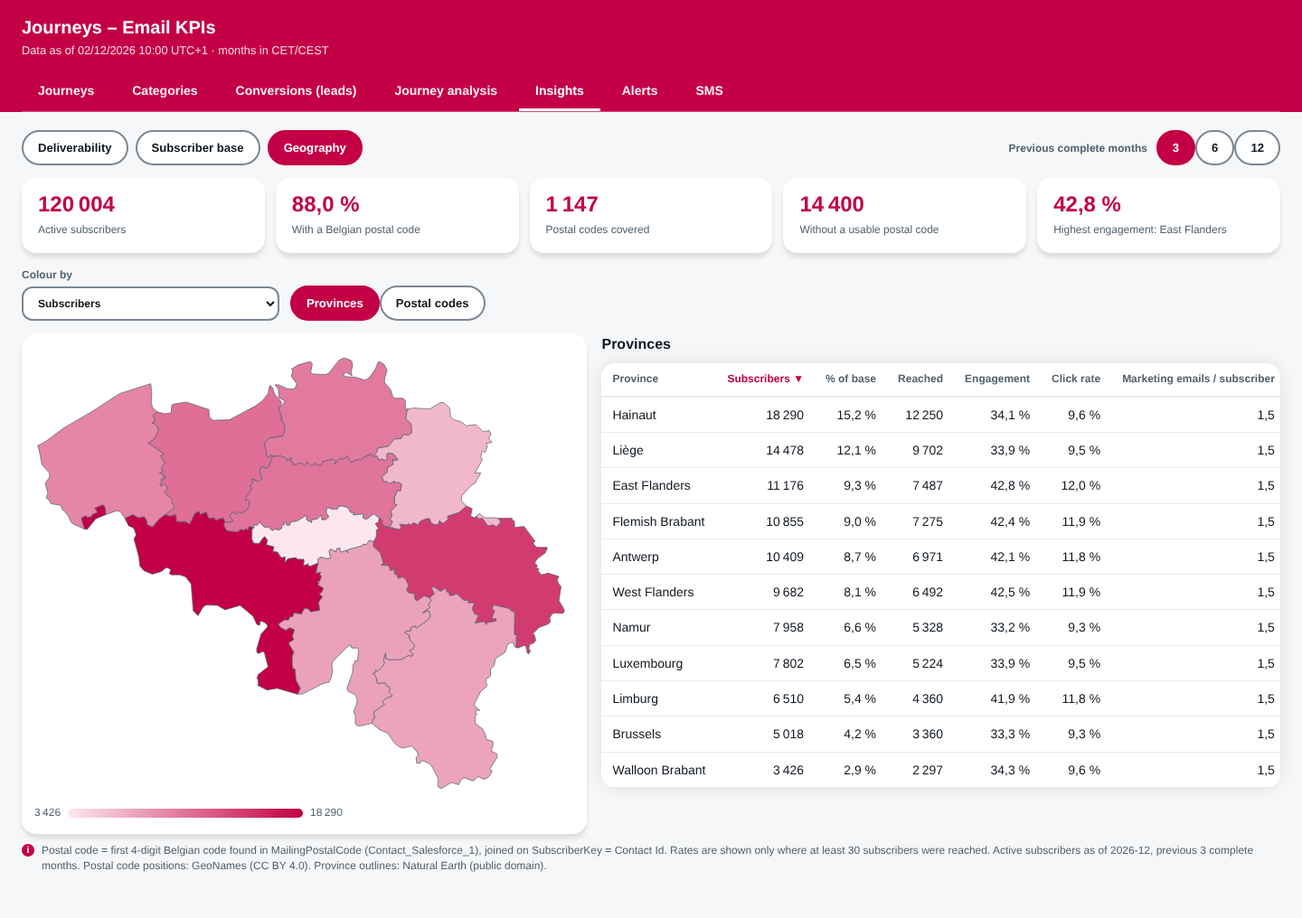
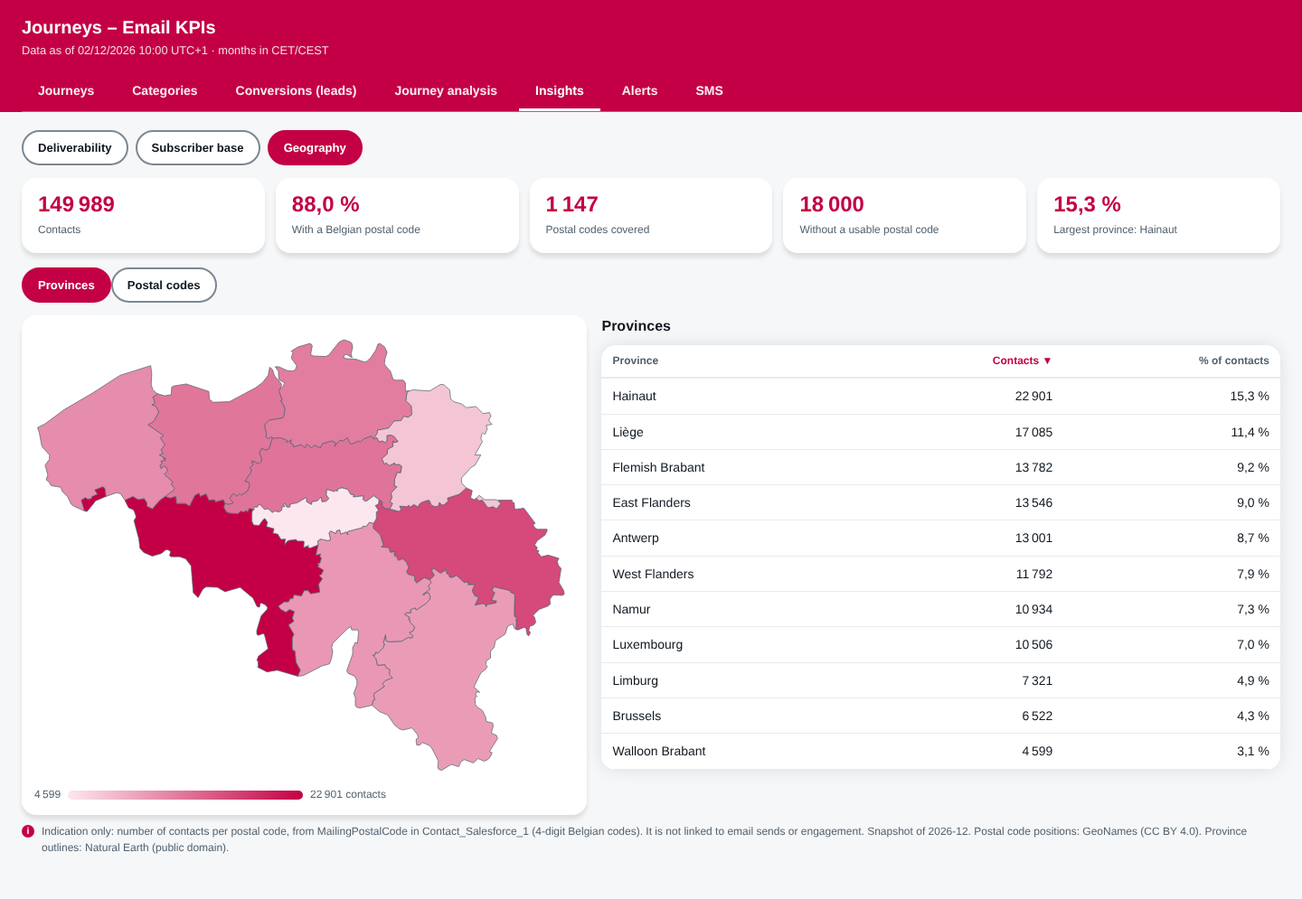
Geography: contact distribution only (no engagement, no subscriber join, no look-back window)
DASH_Contact_Geo (PostalCode, Contacts) from Contact_Salesforce_1, overwritten daily.

Claude-Session: https://claude.ai/code/session_01WtzjzeTDomDiWbenzCQNQG

diff --git a/cloudpage_dashboard.html b/cloudpage_dashboard.html
@@ -326,7 +326,6 @@ a.jl:focus-visible{outline:2px solid var(--focus);outline-offset:2px;border-radi
       <div id="geoMsg" class="warn" role="status" hidden></div>
       <div id="geoCards" class="cards"></div>
       <div class="cbar">
-        <label>Colour by<select id="fGm"><option value="subs">Subscribers</option><option value="eng">Engagement rate (open or click)</option><option value="click">Click rate</option><option value="recv">Marketing emails received per subscriber</option></select></label>
         <span role="group" aria-label="Map level"><button type="button" class="chip" data-gl="prov" aria-pressed="true">Provinces</button><button type="button" class="chip" data-gl="postal" aria-pressed="false">Postal codes</button></span>
       </div>
       <div class="mapgrid">
@@ -364,7 +363,7 @@ const ALERT_MIN_DAYS = CFG.alertMinDays ?? 3;    /* do not alert before this man
 const DARK = () => window.matchMedia && matchMedia('(prefers-color-scheme: dark)').matches;
 const PAL_L = ['#c30045','#101820','#2a7fb8','#4b9b30','#ad0cdf'], PAL_D = ['#ff7da3','#eef0f2','#6cb8ee','#7fd36a','#d28bff'];
 const DASHES = [[],[7,4],[2,3],[10,3,2,3]], PTS = ['circle','rect','triangle','rectRot'];   /* series differ by shape and line style, not only by colour */
-const S = {tab:'journeys', fam:'ALL', type:'', prod:'', from:'', to:'', gran:'total', grp:'journey', view:'cat', q:'', j:'', alert:'ongoing', compact:false, sub:'deliv', win:'3', gm:'subs', gl:'prov'};
+const S = {tab:'journeys', fam:'ALL', type:'', prod:'', from:'', to:'', gran:'total', grp:'journey', view:'cat', q:'', j:'', alert:'ongoing', compact:false, sub:'deliv', win:'3', gl:'prov'};
 let DEF = {}, JSET = new Set(), FOCUS = null;
 const SORT = {};   /* sort state per table id: {k,d} */
 const EXP = new Set();   /* expanded journey rows (email activity detail) */
@@ -796,11 +795,10 @@ function viewInsDeliv(){
 
 /* ---------- Insights : sous-vues ---------- */
 function viewIns(){
-  $('ins-deliv').hidden = S.sub!=='deliv'; $('ins-aud').hidden = S.sub!=='aud'; $('ins-geo').hidden = S.sub!=='geo'; $('winBar').hidden = S.sub==='deliv';
+  $('ins-deliv').hidden = S.sub!=='deliv'; $('ins-aud').hidden = S.sub!=='aud'; $('ins-geo').hidden = S.sub!=='geo'; $('winBar').hidden = S.sub!=='aud';   /* the geography is not tied to a look-back window */
   document.querySelectorAll('[data-sub]').forEach(b=>b.setAttribute('aria-pressed', b.dataset.sub===S.sub));
   document.querySelectorAll('[data-win]').forEach(b=>b.setAttribute('aria-pressed', b.dataset.win===S.win));
   document.querySelectorAll('[data-gl]').forEach(b=>b.setAttribute('aria-pressed', b.dataset.gl===S.gl));
-  $('fGm').value = S.gm;
   if (S.sub==='deliv') return viewInsDeliv();
   const msg = $(S.sub==='aud' ? 'audMsg' : 'geoMsg');
   if (D.audErr){
@@ -819,9 +817,10 @@ function loadAudience(){
   const cur = brusselsMonth(D.generatedMs||Date.now()), prev = mStr(mIdx(cur)-1);
   LOADING.audience = (async()=>{
     try{
-      let r = await api('audience',{asof:cur});
-      if (!(r.dist||[]).length && !(r.geo||[]).length){ const r2 = await api('audience',{asof:prev}); if ((r2.dist||[]).length || (r2.geo||[]).length) r = r2; }
-      D.aud = {asof:r.asof, dist:r.dist||[], geo:r.geo||[]}; D.audErr = ''; showWarn(r.warnings);
+      const r = await api('audience',{asof:cur});
+      let dist = r.dist||[], asof = r.asof;
+      if (!dist.length){ const r2 = await api('audience',{asof:prev}); if ((r2.dist||[]).length){ dist = r2.dist; asof = r2.asof; } }   /* snapshot of the previous month until the new one is computed */
+      D.aud = {asof, dist, geo:r.geo||[]}; D.audErr = ''; showWarn(r.warnings);
     }catch(e){ D.aud = null; D.audErr = e.message; }
     finally{ delete LOADING.audience; }
   })();
@@ -880,70 +879,56 @@ function ramp(x){
   x = Math.max(0, Math.min(1, x)); const dark = DARK(), a = dark ? [58,36,48] : [253,231,238], b = dark ? [255,92,138] : [195,0,69];
   return 'rgb('+a.map((v,i)=>Math.round(v+(b[i]-v)*x)).join(',')+')';
 }
-const MINR = 30;   /* rates are shown only where at least this many subscribers were reached */
 function viewGeo(){
   const box = $('mapBox'), msg = $('geoMsg'), tip = $('mapTip');
   charts.forEach(c=>c.destroy()); charts = [];
   if (!GEO){ msg.hidden = false; msg.textContent = 'Map data is not embedded in this page (run tools/inject_geo.py).'; return; }
-  const rows = D.aud.geo.filter(r=>r.Win===S.win);
+  const rows = D.aud.geo;
   msg.hidden = true;
-  if (!rows.length){ msg.hidden = false; msg.textContent = 'No geography snapshot for the previous '+S.win+' months yet (DASH_Audience_Geo).'; box.innerHTML = ''; $('tGeo').innerHTML = ''; cards('geoCards',[]); $('mapLegend').textContent=''; return; }
-  const pcm = new Map(), pvm = new Map(); let total = 0, na = 0;
-  const add = (m, key, r, extra) => { let a = m.get(key); if (!a){ a = Object.assign({key,Subs:0,Reached:0,Engaged:0,Clickers:0,Recv:0}, extra||{}); m.set(key,a); } a.Subs+=r.Subscribers; a.Reached+=r.Reached; a.Engaged+=r.Engaged; a.Clickers+=r.Clickers; a.Recv+=r.ReceivedMkt; };
+  if (!rows.length){ msg.hidden = false; msg.textContent = 'No contact geography yet (DASH_Contact_Geo).'; box.innerHTML = ''; $('tGeo').innerHTML = ''; cards('geoCards',[]); $('mapLegend').textContent=''; return; }
+  const pcm = new Map(), pvm = new Map(); let total = 0, na = 0, asof = '';
+  const add = (m, key, c, extra) => { let a = m.get(key); if (!a){ a = Object.assign({key,Contacts:0}, extra||{}); m.set(key,a); } a.Contacts += c; };
   for (const r of rows){
-    total += r.Subscribers; const g = GEO.postal[r.PostalCode];
-    if (r.PostalCode==='N/A' || !g){ na += r.Subscribers; continue; }
-    add(pcm, r.PostalCode, r, {name:g[3], prov:g[2], x:g[0], y:g[1]}); add(pvm, g[2], r);
+    total += r.Contacts; if (r.AsOf) asof = r.AsOf; const g = GEO.postal[r.PostalCode];
+    if (r.PostalCode==='N/A' || !g){ na += r.Contacts; continue; }
+    add(pcm, r.PostalCode, r.Contacts, {name:g[3], prov:g[2], x:g[0], y:g[1]}); add(pvm, g[2], r.Contacts);
   }
   const provName = id => { const p = GEO.provinces.find(x=>x.id===id); return p ? p.en : id; };
-  const rate = (a,b) => b>=MINR ? a/b : null;
-  const GM = {
-    subs:{l:'Subscribers',        v:e=>e.Subs,                                   f:n},
-    eng: {l:'Engagement rate',    v:e=>rate(e.Engaged,e.Reached),                f:x=>PF.format(x)},
-    click:{l:'Click rate',        v:e=>rate(e.Clickers,e.Reached),               f:x=>PF.format(x)},
-    recv:{l:'Marketing emails per subscriber', v:e=>e.Subs>=MINR?e.Recv/e.Subs:null, f:fx1}
-  }, m = GM[S.gm];
-  const ents = S.gl==='prov' ? pvm : pcm;
-  const vals = [...ents.values()].map(e=>m.v(e)).filter(v=>v!==null), lo = Math.min(...vals), hi = Math.max(...vals);
-  const col = v => v===null ? 'var(--map-neutral)' : ramp((v-lo)/((hi-lo)||1));
-  let svg = '<svg viewBox="'+GEO.viewBox.join(' ')+'" role="img" aria-label="Map of Belgium: '+esc(m.l)+' by '+(S.gl==='prov'?'province':'postal code')+'. The same figures are in the table next to the map.">';
-  for (const p of GEO.provinces){ const e = pvm.get(p.id); svg += '<path class="prov" d="'+p.d+'" fill="'+(S.gl==='prov' ? col(e ? m.v(e) : null) : 'var(--map-neutral)')+'" data-k="v:'+p.id+'"/>'; }
+  const known = total - na, ents = S.gl==='prov' ? pvm : pcm;
+  const vals = [...ents.values()].map(e=>e.Contacts), lo = Math.min(...vals), hi = Math.max(...vals);
+  let svg = '<svg viewBox="'+GEO.viewBox.join(' ')+'" role="img" aria-label="Map of Belgium: number of contacts by '+(S.gl==='prov'?'province':'postal code')+'. The same figures are in the table next to the map.">';
+  for (const p of GEO.provinces){ const e = pvm.get(p.id); svg += '<path class="prov" d="'+p.d+'" fill="'+(S.gl==='prov' && e ? ramp((e.Contacts-lo)/((hi-lo)||1)) : 'var(--map-neutral)')+'" data-k="v:'+p.id+'"/>'; }
   if (S.gl==='postal'){
-    const maxS = Math.max(...[...pcm.values()].map(e=>e.Subs), 1);
-    [...pcm.values()].sort((a,b)=>b.Subs-a.Subs).forEach(e=>{ svg += '<circle class="pc" cx="'+e.x+'" cy="'+e.y+'" r="'+(4+30*Math.sqrt(e.Subs/maxS)).toFixed(1)+'" fill="'+(S.gm==='subs' ? ramp(.75) : col(m.v(e)))+'" data-k="p:'+e.key+'"/>'; });
+    const maxC = Math.max(...vals, 1);
+    [...pcm.values()].sort((a,b)=>b.Contacts-a.Contacts).forEach(e=>{ svg += '<circle class="pc" cx="'+e.x+'" cy="'+e.y+'" r="'+(4+30*Math.sqrt(e.Contacts/maxC)).toFixed(1)+'" fill="'+ramp(.75)+'" data-k="p:'+e.key+'"/>'; });
   }
   box.innerHTML = svg + '</svg>';
-  $('mapLegend').innerHTML = (S.gl==='postal' && S.gm==='subs')
-    ? '<span>Bubble area = number of subscribers</span>'
-    : '<span>'+(vals.length?m.f(lo):'–')+'</span><i style="background:linear-gradient(90deg,'+ramp(0)+','+ramp(1)+')"></i><span>'+(vals.length?m.f(hi):'–')+'</span><span>'+(S.gm==='subs'?'':'grey = fewer than '+MINR+' reached')+(S.gl==='postal'?' · bubble area = subscribers':'')+'</span>';
-  const info = e => '<b>'+esc(e.title)+'</b>Subscribers: '+n(e.Subs)+'<br>Engagement: '+(rate(e.Engaged,e.Reached)===null?'–':PF.format(e.Engaged/e.Reached))+' · Clicks: '+(rate(e.Clickers,e.Reached)===null?'–':PF.format(e.Clickers/e.Reached))+'<br>Marketing emails / subscriber: '+(e.Subs?fx1(e.Recv/e.Subs):'–');
+  $('mapLegend').innerHTML = S.gl==='postal' ? '<span>Bubble area = number of contacts</span>'
+    : '<span>'+n(lo)+'</span><i style="background:linear-gradient(90deg,'+ramp(0)+','+ramp(1)+')"></i><span>'+n(hi)+' contacts</span>';
+  const share = e => e.Contacts/total < 0.001 ? '< 0,1 %' : pct(e.Contacts,total);
+  const info = (title,e) => '<b>'+esc(title)+'</b>Contacts: '+n(e.Contacts)+' ('+share(e)+' of all contacts)';
   const show = ev => {
     const t = ev.target.closest && ev.target.closest('[data-k]'); if (!t){ tip.hidden = true; return; }
     const [kind,key] = t.dataset.k.split(':'), e = kind==='v' ? pvm.get(key) : pcm.get(key);
-    tip.innerHTML = e ? info(Object.assign({title: kind==='v' ? provName(key) : key+' '+e.name+' ('+provName(e.prov)+')'}, e)) : '<b>'+esc(kind==='v'?provName(key):key)+'</b>No subscribers';
+    tip.innerHTML = e ? info(kind==='v' ? provName(key) : key+' '+e.name+' ('+provName(e.prov)+')', e) : '<b>'+esc(kind==='v'?provName(key):key)+'</b>No contacts';
     tip.hidden = false; tip.style.left = Math.min(ev.clientX+14, innerWidth-290)+'px'; tip.style.top = (ev.clientY+14)+'px';
   };
   box.onmousemove = show; box.onmouseleave = ()=>{ tip.hidden = true; };
-  const known = total - na;
-  const best = [...pvm.values()].filter(e=>rate(e.Engaged,e.Reached)!==null).sort((a,b)=>b.Engaged/b.Reached-a.Engaged/a.Reached)[0];
-  cards('geoCards', [[n(total),'Active subscribers'],[pct(known,total),'With a Belgian postal code'],[n(pcm.size),'Postal codes covered'],[n(na),'Without a usable postal code'],
-    [best ? PF.format(best.Engaged/best.Reached) : '–', best ? 'Highest engagement: '+provName(best.key) : 'Highest engagement']]);
-  const rcols = [
-    {k:'Subs',l:'Subscribers',v:a=>a.Subs,f:a=>n(a.Subs)},{k:'Share',l:'% of base',v:a=>a.Subs,f:a=>pct(a.Subs,total)},
-    {k:'Reached',l:'Reached',v:a=>a.Reached,f:a=>n(a.Reached)},
-    {k:'rEng',l:'Engagement',v:a=>rate(a.Engaged,a.Reached)??-1,f:a=>rate(a.Engaged,a.Reached)===null?'–':PF.format(a.Engaged/a.Reached)},
-    {k:'rClick',l:'Click rate',v:a=>rate(a.Clickers,a.Reached)??-1,f:a=>rate(a.Clickers,a.Reached)===null?'–':PF.format(a.Clickers/a.Reached)},
-    {k:'Avg',l:'Marketing emails / subscriber',v:a=>a.Subs?a.Recv/a.Subs:-1,f:a=>a.Subs?fx1(a.Recv/a.Subs):'–'}];
+  const top = [...pvm.values()].sort((a,b)=>b.Contacts-a.Contacts)[0];
+  cards('geoCards', [[n(total),'Contacts'],[pct(known,total),'With a Belgian postal code'],[n(pcm.size),'Postal codes covered'],[n(na),'Without a usable postal code'],
+    [top ? pct(top.Contacts,total) : '–', top ? 'Largest province: '+provName(top.key) : 'Largest province']]);
+  const shareCol = {k:'Share',l:'% of contacts',v:a=>a.Contacts,f:a=>a.Contacts && a.Contacts/total < 0.001 ? '< 0,1 %' : pct(a.Contacts,total)};
   if (S.gl==='prov'){
     $('geoTblTitle').textContent = 'Provinces';
-    const list = GEO.provinces.map(p=>Object.assign({name:p.en,key:p.id,Subs:0,Reached:0,Engaged:0,Clickers:0,Recv:0}, pvm.get(p.id)||{}, {name:p.en}));
-    renderTable('tGeo', [{k:'name',l:'Province',v:a=>a.name.toLowerCase(),f:a=>esc(a.name)}], rcols, list, null, {defK:'Subs'});
+    const list = GEO.provinces.map(p=>({name:p.en,key:p.id,Contacts:(pvm.get(p.id)||{}).Contacts||0}));
+    renderTable('tGeo', [{k:'name',l:'Province',v:a=>a.name.toLowerCase(),f:a=>esc(a.name)}], [{k:'Contacts',l:'Contacts',v:a=>a.Contacts,f:a=>n(a.Contacts)}, shareCol], list, null, {defK:'Contacts'});
   } else {
     $('geoTblTitle').textContent = 'Top 25 postal codes';
-    const list = [...pcm.values()].sort((a,b)=>b.Subs-a.Subs).slice(0,25);
-    renderTable('tGeo', [{k:'pc',l:'Postal code',v:a=>a.key,f:a=>esc(a.key)},{k:'place',l:'Place',v:a=>a.name.toLowerCase(),f:a=>esc(a.name)},{k:'prov',l:'Province',v:a=>provName(a.prov),f:a=>esc(provName(a.prov))}], rcols, list, null, {defK:'Subs'});
+    const list = [...pcm.values()].sort((a,b)=>b.Contacts-a.Contacts).slice(0,25);
+    renderTable('tGeo', [{k:'pc',l:'Postal code',v:a=>a.key,f:a=>esc(a.key)},{k:'place',l:'Place',v:a=>a.name.toLowerCase(),f:a=>esc(a.name)},{k:'prov',l:'Province',v:a=>provName(a.prov),f:a=>esc(provName(a.prov))}],
+      [{k:'Contacts',l:'Contacts',v:a=>a.Contacts,f:a=>n(a.Contacts)}, shareCol], list, null, {defK:'Contacts'});
   }
-  $('geoNote').textContent = 'Postal code = first 4-digit Belgian code found in MailingPostalCode (Contact_Salesforce_1), joined on SubscriberKey = Contact Id. Rates are shown only where at least '+MINR+' subscribers were reached. Active subscribers as of '+D.aud.asof+', previous '+S.win+' complete months. '+(GEO.attribution||'');
+  $('geoNote').textContent = 'Indication only: number of contacts per postal code, from MailingPostalCode in Contact_Salesforce_1 (4-digit Belgian codes). It is not linked to email sends or engagement. Snapshot of '+(asof||'–')+'. '+(GEO.attribution||'');
 }
 
 /* ---------- SMS ---------- */
@@ -985,7 +970,7 @@ const HSEL = {fam:'fFam',type:'fType',prod:'fProd',from:'fFrom',to:'fTo',gran:'f
 function saveHash(){
   try{
     const p = new URLSearchParams();
-    for (const k of ['tab','fam','type','prod','from','to','gran','grp','view','q','j','alert','sub','win','gm','gl']) if (S[k] && S[k]!==DEF[k]) p.set(k,S[k]);
+    for (const k of ['tab','fam','type','prod','from','to','gran','grp','view','q','j','alert','sub','win','gl']) if (S[k] && S[k]!==DEF[k]) p.set(k,S[k]);
     if (S.compact) p.set('compact','1');
     const h = p.toString(); history.replaceState(null,'',location.pathname+location.search+(h?'#'+h:''));
   }catch(e){}
@@ -995,8 +980,7 @@ function loadHash(){
   if (TABS[p.get('tab')]) S.tab = p.get('tab');
   for (const k in HSEL){ const v=p.get(k), el=$(HSEL[k]); if (v!==null && [...el.options].some(o=>o.value===v)){ S[k]=v; el.value=v; } }
   if (p.get('q')){ S.q=p.get('q'); $('fQ').value=S.q; }
-  for (const [k,vals] of [['sub',['deliv','aud','geo']],['win',['3','6','12']],['gm',['subs','eng','click','recv']],['gl',['prov','postal']]]) if (vals.includes(p.get(k))) S[k]=p.get(k);
-  $('fGm').value = S.gm;
+  for (const [k,vals] of [['sub',['deliv','aud','geo']],['win',['3','6','12']],['gl',['prov','postal']]]) if (vals.includes(p.get(k))) S[k]=p.get(k);
   S.compact = p.get('compact')==='1';
 }
 function selectTab(t, focus){
@@ -1063,7 +1047,7 @@ function setup(){
   const js = [...last.keys()].sort((a,b)=>(last.get(b)>last.get(a)?1:last.get(b)<last.get(a)?-1:0)||(covKey(b)>covKey(a)?1:covKey(b)<covKey(a)?-1:0)||(a<b?-1:1));
   $('fJ').innerHTML = js.map(j=>{const p=parse(j);return `<option value="${esc(j)}">${esc(p.campaign+' · '+(p.covered||'–')+' · '+p.fam+' · '+p.type+' · '+p.product)}</option>`;}).join('');
   S.j = js[0] || ''; JSET = new Set(js);
-  DEF = {tab:'journeys',fam:'ALL',type:'',prod:'',from:S.from,to:S.to,gran:'total',grp:'journey',view:'cat',q:'',j:S.j,alert:'ongoing',sub:'deliv',win:'3',gm:'subs',gl:'prov'};
+  DEF = {tab:'journeys',fam:'ALL',type:'',prod:'',from:S.from,to:S.to,gran:'total',grp:'journey',view:'cat',q:'',j:S.j,alert:'ongoing',sub:'deliv',win:'3',gl:'prov'};
   const on = (id,fn)=>{ $(id).onchange = e=>{fn(e.target.value); SORT.tbl=null; render();}; };
   on('fType',v=>S.type=v); on('fProd',v=>S.prod=v); on('fView',v=>S.view=v); on('fFam',v=>S.fam=v);
   on('fFrom',v=>S.from=v); on('fTo',v=>S.to=v); on('fGran',v=>S.gran=v); on('fGrp',v=>S.grp=v);
@@ -1074,7 +1058,6 @@ function setup(){
   document.querySelectorAll('[data-sub]').forEach(b=>b.onclick=()=>{ S.sub=b.dataset.sub; render(); });
   document.querySelectorAll('[data-win]').forEach(b=>b.onclick=()=>{ S.win=b.dataset.win; render(); });
   document.querySelectorAll('[data-gl]').forEach(b=>b.onclick=()=>{ S.gl=b.dataset.gl; render(); });
-  $('fGm').onchange = e=>{ S.gm=e.target.value; render(); };
   $('bReset').onclick = ()=>{ for (const k of ['fam','type','prod','gran','from','to']){ S[k]=DEF[k]; $(HSEL[k]).value=DEF[k]; } S.q=''; $('fQ').value=''; SORT.tbl=null; render(); };
   $('fQ').oninput = e=>{S.q=e.target.value;render();};
   document.querySelectorAll('.tab').forEach(b=>b.onclick=()=>selectTab(b.dataset.tab));

diff --git a/cloudpage_api.html b/cloudpage_api.html
@@ -196,15 +196,15 @@ try {
       Write(Stringify({ part: "links", j: jn, links: links, warnings: warnings }));
     }
   } else if (part === "audience") {
-    /* base abonnes : repartition (DASH_Audience_Dist) et geographie (DASH_Audience_Geo) du mois demande (&asof=yyyy-mm) */
+    /* base abonnes : repartition (DASH_Audience_Dist) du mois demande (&asof=yyyy-mm) et geographie des contacts (DASH_Contact_Geo) */
     var asof = trim(Platform.Request.GetQueryStringParameter("asof"));
     if (asof.split("-").length !== 2) { Write(Stringify({ error: "missing or invalid parameter asof (yyyy-mm) for part=audience" })); }
     else {
       var aflt = { Property: "AsOf", SimpleOperator: "equals", Value: asof };
       var dist = optional(cfgv("audience_dist_de", "DASH_Audience_Dist"), ["AsOf","Win","RecBucket","Seg","Subscribers","ReceivedMkt","ReceivedOps","OpensMkt","ClicksMkt","Months"],
                           ["Subscribers","ReceivedMkt","ReceivedOps","OpensMkt","ClicksMkt","Months"], "DASH_Audience_Dist", aflt);
-      var geo = optional(cfgv("audience_geo_de", "DASH_Audience_Geo"), ["AsOf","Win","PostalCode","Subscribers","Reached","Engaged","Clickers","ReceivedMkt","ReceivedOps"],
-                         ["Subscribers","Reached","Engaged","Clickers","ReceivedMkt","ReceivedOps"], "DASH_Audience_Geo", aflt);
+      /* geographie des contacts : indication seule (nombre de contacts par code postal), sans lien avec les envois ; la DE est ecrasee chaque jour */
+      var geo = optional(cfgv("contact_geo_de", "DASH_Contact_Geo"), ["PostalCode","Contacts","AsOf"], ["Contacts"], "DASH_Contact_Geo");
       Write(Stringify({ part: "audience", asof: asof, dist: dist, geo: geo, warnings: warnings }));
     }
   } else if (part === "sms") {

diff --git a/README.md b/README.md
@@ -13,7 +13,7 @@ Les DE gardent l'historique au-delà des ~6 mois de rétention des Data Views.
 | DASH_Domain_Monthly | **Domain** Text(100), **Month** Text(7), Sends, Bounces, Complaints (Number) |
 | DASH_Sub_Monthly | **SubscriberKey** Text(100), **Month** Text(7), RecMkt, RecOps, OpenMkt, ClickMkt (Number) : par abonné et par mois, journeys MKT_ / Oxx_ (s'accumule, jamais écrasée) |
 | DASH_Audience_Dist | **AsOf** Text(7), **Win** Text(2), **RecBucket** Text(6), **Seg** Text(15), Subscribers, ReceivedMkt, ReceivedOps, OpensMkt, ClicksMkt, Months (Number) |
-| DASH_Audience_Geo | **AsOf** Text(7), **Win** Text(2), **PostalCode** Text(10), Subscribers, Reached, Engaged, Clickers, ReceivedMkt, ReceivedOps (Number) |
+| DASH_Contact_Geo | **PostalCode** Text(10), Contacts (Number), AsOf Text(10) : nombre de contacts par code postal (indication seule, sans lien avec les envois) ; écrasée chaque jour |
 | DASH_SMS_Monthly | **JourneyName** Text(200), **Month** Text(7), **AssetName** Text(200), Sent, **Messages**, UniqueRecipients, Delivered, Bounced (Number) |
 | DASH_Config | **ConfigKey** Text(50), Value Text(200) → voir « Configuration (DE DASH_Config) » ci-dessous |
 | DASH_IP_Allowlist | **IPAddress** Text(50), Description Text(200) → une ligne par IP (`203.0.113.7`) ou plage IPv4 CIDR (`203.0.113.0/24`) ; IPv6 en correspondance exacte |
@@ -31,7 +31,7 @@ Tous les réglages sont des lignes de la DE `DASH_Config` (colonnes `ConfigKey` 
 | `link_de_key` | `DASH_Link_Monthly` | = `link_de_name` | Customer Key de cette DE (repli) |
 | `link_budget_ms` | `20000` | `20000` | temps maximum de lecture des liens avant résultat partiel |
 | `audience_dist_de` | `DASH_Audience_Dist` | `DASH_Audience_Dist` | Customer Key de la DE de répartition des abonnés |
-| `audience_geo_de` | `DASH_Audience_Geo` | `DASH_Audience_Geo` | Customer Key de la DE de géographie |
+| `contact_geo_de` | `DASH_Contact_Geo` | `DASH_Contact_Geo` | Customer Key de la DE de géographie des contacts |
 | `alert_drop_pct` | `15` | `15` | baisse de volume (en %) qui déclenche une alerte |
 | `alert_min_sends` | `500` | `500` | envois du mois précédent au-dessus desquels une journey est surveillée |
 | `alert_min_days` | `3` | `3` | jours complets nécessaires avant de comparer les volumes |
@@ -60,7 +60,8 @@ Exemple de contenu :
 5. SQL `sql/10_domain_monthly.sql` → DASH_Domain_Monthly, **Update**
 6. SQL `sql/13_sms_monthly.sql` → DASH_SMS_Monthly, **Update** (backfill : `sql/14_backfill_sms.sql`)
 7. SQL `sql/15_sub_monthly.sql` → DASH_Sub_Monthly, **Update** (backfill : `sql/16_backfill_sub_monthly.sql`)
-8. SQL `sql/17_audience_dist.sql` → DASH_Audience_Dist, **Update**, puis `sql/18_audience_geo.sql` → DASH_Audience_Geo, **Update** (à placer **après** l'étape 7 dans l'automation ; une exécution par jour suffit)
+8. SQL `sql/17_audience_dist.sql` → DASH_Audience_Dist, **Update** (à placer **après** l'étape 7 dans l'automation ; une exécution par jour suffit)
+9. SQL `sql/18_audience_geo.sql` → DASH_Contact_Geo, mode **Overwrite** (indépendante des étapes précédentes : elle ne lit que `Contact_Salesforce_1`)
 
 Premier chargement (backfill depuis le 01/06/2026) : lancer **une fois** `sql/03_backfill_kpi.sql`, `04_backfill_conversions.sql`, `07_backfill_email_kpi.sql`, `09_backfill_link_clicks.sql` et `11_backfill_domain.sql` (Run Once, mêmes DE cibles, mode Update), puis activer les requêtes récurrentes 01 et 02. Si le timeout de 30 min est atteint, chaque fichier contient un tableau de dates pour découper le chargement mois par mois. Les fichiers SQL des automations ne contiennent aucun commentaire (Automation Studio les refuse parfois) : voir `sql/NOTES.md`. `sql/00_diagnostics.sql` sert à comprendre un résultat vide.
 
@@ -90,7 +91,7 @@ Libellés lisibles : renseigner `LABELS.type` / `LABELS.product` en haut du scri
 - **Insights** : trois vues.
   - *Deliverability* : top 5 des domaines (envois, bounces, complaints) et top 5 des journeys par bounces.
   - *Subscriber base* : base d'abonnés actifs, nombre d'e-mails marketing et opérationnels reçus sur les 3, 6 ou 12 mois complets précédents, et engagement (clic, ouverture sans clic, aucun) par volume reçu.
-  - *Geography* : carte de la Belgique par province ou par code postal (`MailingPostalCode` de `Contact_Salesforce_1`), colorée par nombre d'abonnés, engagement, taux de clic ou e-mails reçus.
+  - *Geography* : simple indication de la répartition des **contacts** (`MailingPostalCode` de `Contact_Salesforce_1`) sur une carte de la Belgique, par province ou par code postal. Elle ne reflète ni les envois ni l'engagement.
 - **Alerts** : volume du mois en cours comparé au mois précédent (ramené au prorata des jours écoulés) ; alerte si plus de 15 % en dessous, pour les journeys de plus de 500 envois le mois dernier. Réglages `ALERT_DROP`, `ALERT_MIN`, `ALERT_MIN_DAYS` en haut du script du dashboard.
 - **SMS** : par journey et asset (DASH_SMS_Monthly, requêtes 13 et 14).
 
@@ -111,4 +112,4 @@ L'API (`cloudpage_api.html`) renvoie les données principales par défaut ; `&pa
 - **Historique** : les Data Views ne gardent qu'environ 6 mois. `DASH_Sub_Monthly` garde, pour chaque abonné et chaque mois, le nombre d'e-mails reçus et l'engagement ; elle s'accumule donc mois après mois et la fenêtre de 12 mois se complète avec le temps. Le dashboard indique « Only X of the previous 12 months of history are available » tant qu'elle n'est pas complète.
 - **Chargement initial** : `sql/16_backfill_sub_monthly.sql` (une fois, depuis le 01/06/2026), puis l'automation quotidienne.
 - **Carte** : données incluses dans `cloudpage_dashboard.html` (contours des provinces simplifiés et position de chaque code postal belge, 51 Ko). Sources : GeoNames (CC BY 4.0) et Natural Earth (domaine public). Pour les régénérer : `python3 tools/build_geo.py && python3 tools/inject_geo.py`.
-- **Jointure abonné / contact** : `_Subscribers.SubscriberKey = Contact_Salesforce_1.Id` (valeur par défaut de Marketing Cloud Connect). Vérifiez le taux de correspondance avec les sondes P8 à P10 de `sql/12_probes.sql`. Les codes postaux qui ne sont pas à 4 chiffres (étranger, vide) sont comptés « sans code postal utilisable ».
+- **Géographie** : uniquement le nombre de contacts de `Contact_Salesforce_1` par code postal (4 chiffres belges ; les codes étrangers, vides ou mal formés sont comptés « sans code postal utilisable »). Aucune jointure avec les abonnés ni avec les envois. La sonde P9 de `sql/12_probes.sql` montre les formats réels des codes postaux.

diff --git a/sql/NOTES.md b/sql/NOTES.md
@@ -86,5 +86,5 @@ Basées sur votre requête de reporting (quarterly) et adaptées au rythme mensu
 ## Base abonnés et géographie (15 à 18)
 - **15 / 16** : `DASH_Sub_Monthly` (clé : SubscriberKey + Month). Par abonné et par mois (CET) : `RecMkt` / `RecOps` = e-mails reçus (envoyés et non bounced) des journeys MKT_ / Oxx_, `OpenMkt` / `ClickMkt` = ouvertures / clics uniques sur les e-mails marketing. Mode Update : seuls le mois courant et le précédent sont recalculés, l'historique n'est jamais écrasé.
 - **17** : `DASH_Audience_Dist` (clé : AsOf, Win, RecBucket, Seg). Abonnés actifs (`_Subscribers.Status = 'Active'`) répartis par fenêtre (3, 6, 12 mois complets avant le mois courant), par tranche d'e-mails marketing reçus (0, 1-2, 3-5, 6-10, 11-20, 21+) et par segment : `Clicker` (au moins 1 clic), `Opener` (au moins 1 ouverture, pas de clic), `NoEngagement` (reçu, ni ouvert ni cliqué), `NotReached` (aucun e-mail marketing reçu). `Months` = nombre de mois d historique réellement disponibles dans la fenêtre. `AsOf` = mois courant : un instantané par mois est conservé.
-- **18** : `DASH_Audience_Geo` (clé : AsOf, Win, PostalCode). Même fenêtres, par code postal : `Subscribers`, `Reached` (au moins 1 e-mail marketing), `Engaged` (ouvert ou cliqué), `Clickers`, `ReceivedMkt`, `ReceivedOps`. Le code postal est le `MailingPostalCode` du contact (`Contact_Salesforce_1.Id = SubscriberKey`), nettoyé (préfixes B-, BE- retirés) et accepté seulement s il compte exactement 4 chiffres entre 1000 et 9999 ; sinon `N/A`.
-- Si 17 / 18 dépassent le délai de 30 minutes sur une très grande base, lancer 17 et 18 dans deux automations séparées, ou me le dire pour passer à un calcul par lots.
+- **18** : `DASH_Contact_Geo` (clé : PostalCode), mode **Overwrite**. Compte les contacts de `Contact_Salesforce_1` par code postal (`MailingPostalCode`, préfixes B- et BE- retirés, accepté seulement s il compte exactement 4 chiffres entre 1000 et 9999 ; sinon `N/A`). C est une **simple indication de répartition** : pas de jointure avec `_Subscribers` ni avec les envois, pas de notion d engagement ni de fenêtre de temps. `AsOf` = date du calcul (CET). Le fichier garde le nom `18_audience_geo.sql`.
+- Si 17 dépasse le délai de 30 minutes sur une très grande base, me le dire pour passer à un calcul par lots (la requête 18 est légère : elle ne lit que les contacts).
